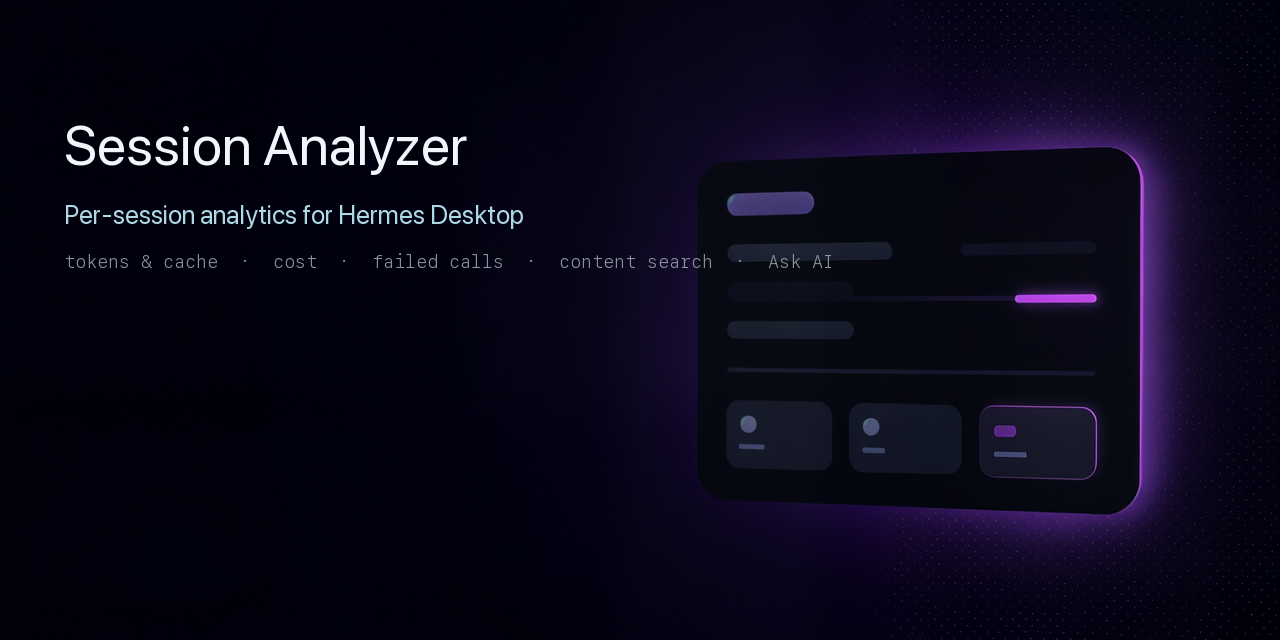
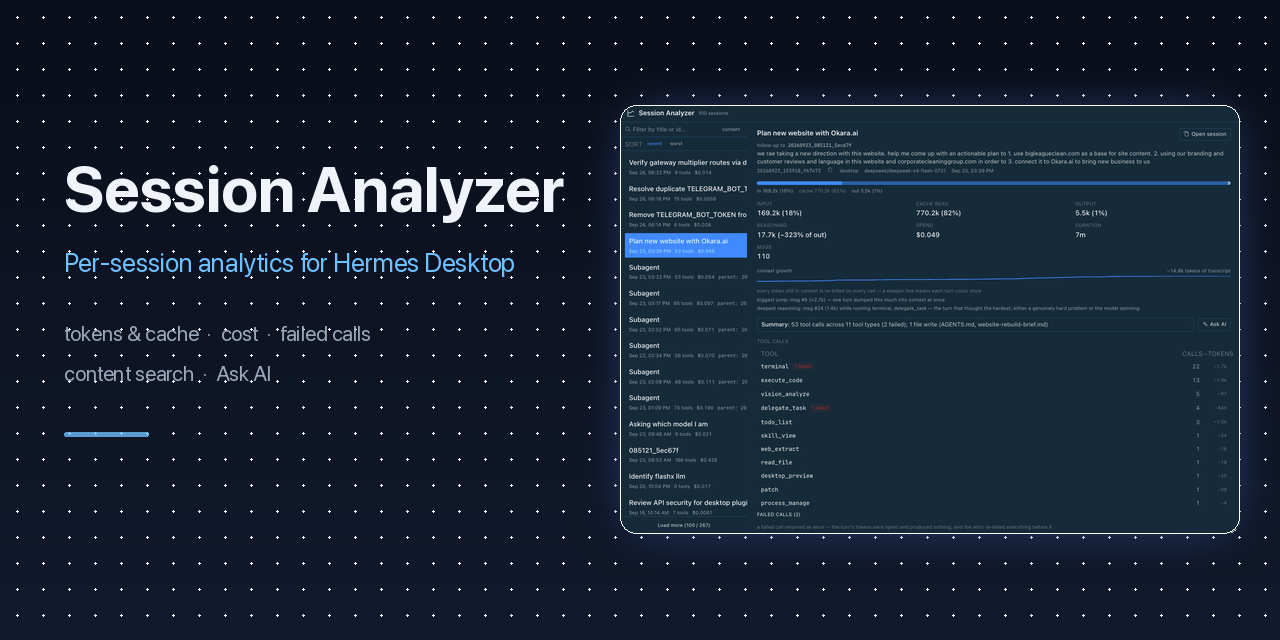
docs: new social preview + HOW_TO_USE guide
- Compose social-preview.png (1280x640) from the updated screenshot:
  headline/subtitle/feature text on the left, real app UI card on the right
- Add HOW_TO_USE.md: the analyze -> extract -> apply feedback loop
  (Ask AI usage, why failed calls cost double, turning lessons into
  skills/memory/profiles), referenced from the README

diff --git a/HOW_TO_USE.md b/HOW_TO_USE.md
@@ -1,0 +1,76 @@
+# How to Use Session Analyzer
+
+Session Analyzer is not just a dashboard — it's a feedback loop. The point is
+to close the gap between _what your agent did_ and _what your agent does next
+time_. This page covers the loop that makes that happen.
+
+## The core loop
+
+1. **Run a real session.** Anything substantive — a build, a refactor, a
+   research task.
+2. **Open Session Analyzer** and pick the session (sort by `recent`, or
+   `worst` if you suspect it went sideways).
+3. **Scan the numbers before reading anything.** Spend, duration, cache %,
+   tool-call table, failed calls, repeated calls.
+4. **Click Ask AI.** It copies a ready-made analysis prompt to your clipboard
+   and opens a fresh draft chat. Paste, pick a strong model, send.
+5. **Act on one lesson before the next session.** One change per session is a
+   compounding habit; five changes is a wish list.
+
+## Why failed tool calls are bad (worse than they look)
+
+A failed tool call is not a free retry. When a call fails:
+
+- **The turn's tokens were already spent** — input, reasoning, and context
+  push — and produced nothing.
+- **The retry re-bills everything before it.** The failed call invalidated
+  that turn's cached prefix, so the retry pays full price for the whole
+  context again.
+- **Failures cluster.** The same missing file, wrong path, or bad argument
+  shape usually fails 3–5 times before the agent changes approach. Session
+  Analyzer groups identical repeated calls so you see the root cause once
+  instead of N failures.
+
+Use the failed-calls section in Ask AI: "which failures repeated, what was
+the root cause, and what instruction would have prevented all of them?"
+
+## What to actually ask Ask AI
+
+The default prompt is a good start. Sharpen it for the session you're
+looking at:
+
+- **Cost autopsy:** "Where did the tokens go? Which turns were re-billed
+  after cache resets (503 retries, model switches, compactions)?"
+- **Failure root cause:** "Group the failed calls by root cause. For each,
+  state the one rule or fact that would have prevented it."
+- **Process drift:** "Did the agent repeat work, re-read files, or go in
+  circles? What checkpoint would have caught it?"
+- **Prompt quality:** "Given what the user asked for versus what happened,
+  how should the original prompt have been written?"
+
+## Turn lessons into standing changes
+
+An insight that lives only in the analysis chat is lost. Convert each lesson
+into something persistent:
+
+- **Agent skills** — a repeated procedure or pitfall becomes a skill the
+  agent loads next time ("don't X; do Y instead").
+- **Memory** — stable facts and preferences the agent should carry into
+  every session.
+- **Dedicated Hermes profiles** — when a line of work keeps needing the same
+  context, model, toolsets, and persona, split it into its own profile (for
+  example a writing profile, a growth-coach profile, a devops profile).
+  Profiles isolate skills, memories, and cron jobs, so each one starts warm
+  instead of re-learning your setup every session.
+- **Config changes** — if the session fought the toolset (missing tools,
+  wrong defaults), fix the profile's toolset config rather than compensating
+  in every prompt.
+
+## A workable cadence
+
+- **After every heavy session:** 2 minutes in Session Analyzer, one Ask AI
+  run on anything that cost more or failed more than expected.
+- **Weekly:** sort by `worst`, ask Ask AI "what pattern spans these
+  sessions?", and land one standing change (skill, memory, profile, config).
+- **After a bad block:** don't push through. Analyze, extract the lesson,
+  start the next session fresh with it applied.

diff --git a/README.md b/README.md
@@ -7,6 +7,11 @@ one.
 
 ![Session Analyzer](assets/screenshot.png)
 
+**How to use it well:** the plugin works best as a feedback loop — analyze a
+session, extract the lesson, and turn it into a skill, memory, or a dedicated
+Hermes profile so the next session starts smarter. See
+[HOW_TO_USE.md](HOW_TO_USE.md).
+
 ## What you get
 
 - **Session list** — title, date, tool count, cost; **Load more** up to 500
@@ -41,7 +46,9 @@ one.
   detail panel, or click the copy icon next to it
 - **Ask AI** — one click opens a new session with a ready-made analysis
   prompt (copied to your clipboard). Paste, pick your judge model, send.
-  No API keys, no config — it uses your existing Hermes.
+  No API keys, no config — it uses your existing Hermes. See
+  [HOW_TO_USE.md](HOW_TO_USE.md) for what to ask and how to turn the
+  analysis into lasting changes.
 
 ![Subagents](assets/subagents.png)
 
